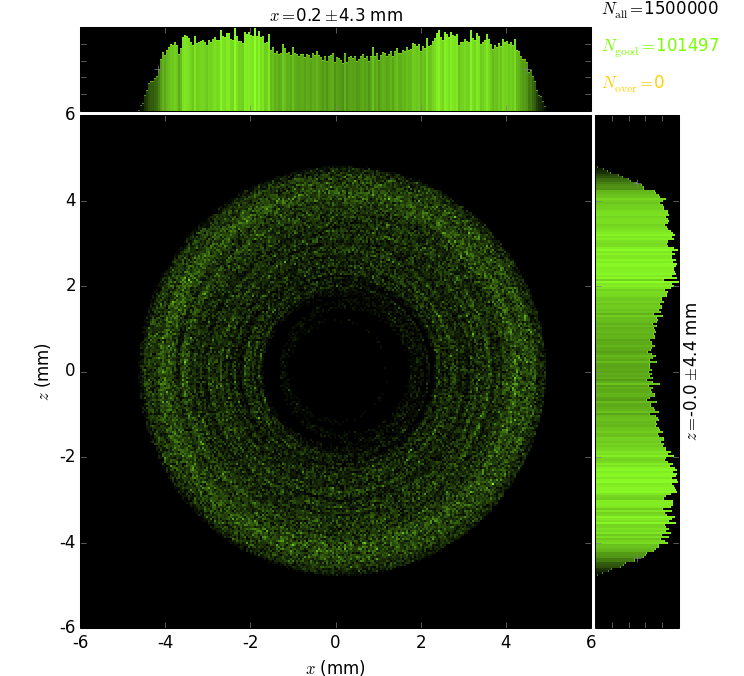
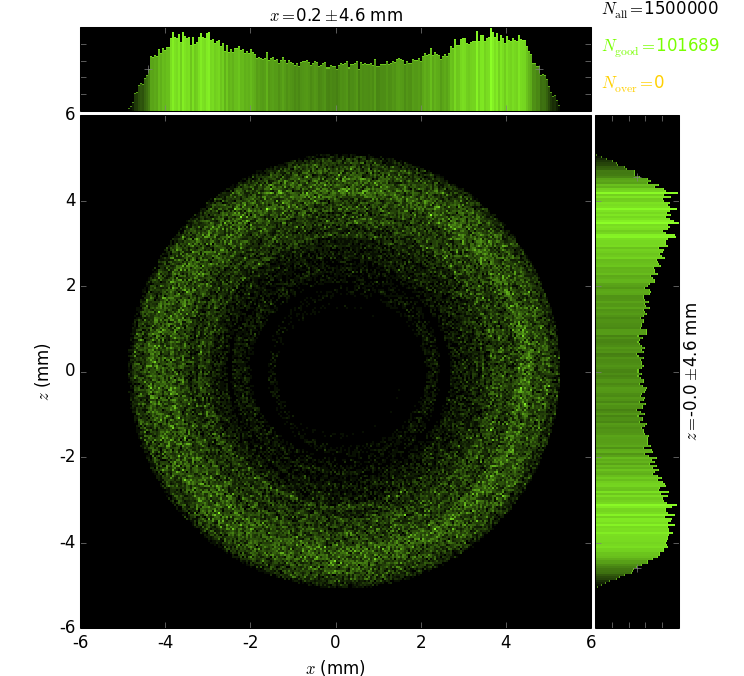
b0 = 0.20

diff --git a/StraightCapillary.py b/StraightCapillary.py
@@ -47,7 +47,7 @@ class StraightCapillary(roe.OE):
         s0 = self.f - self.rSample * np.cos(self.entranceAlpha)
         self.a0 = -np.tan(self.entranceAlpha) / 2 / s0
         self.b0 = 0.5*self.rSample * np.sin(self.entranceAlpha) - self.a0 * s0**2
-        self.b0 = 0.16
+        self.b0 = 0.20
         self.s0 = s0
         self.ar = (self.r0out-self.r0in) / s0
         self.br = self.r0in
